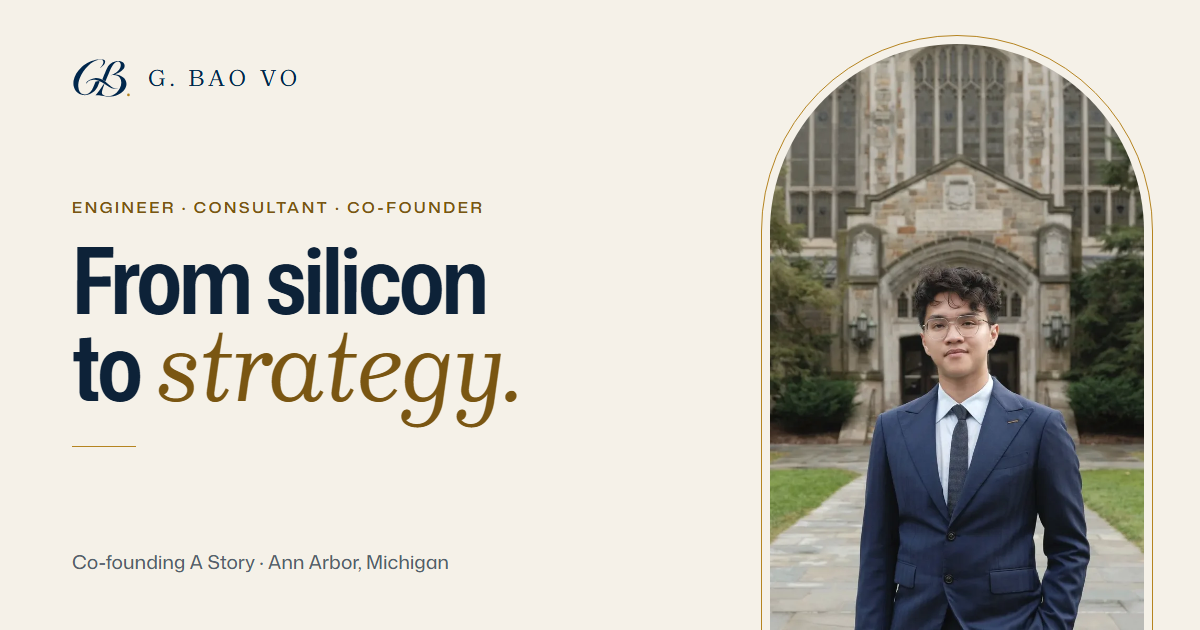
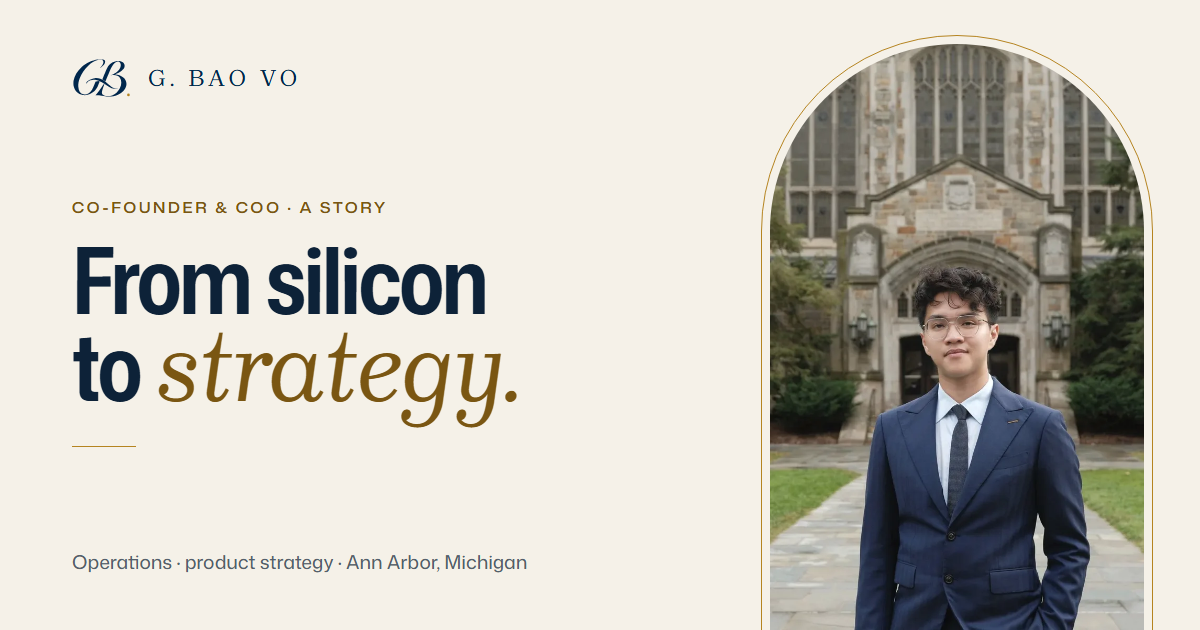
Lead with the business role, not the chip
Hero, About and intro labels now read Co-founder & COO, A Story; the hero
line leads with operations and product strategy at A Story, then biotech
strategy consulting. Engineering stays as background. Share card updated.

Changed region(s): [[0.0617, 0.3016, 0.4008, 0.3619], [0.0617, 0.8746, 0.4317, 0.9048]]

diff --git a/components/Home.tsx b/components/Home.tsx
@@ -11,7 +11,7 @@ import {ProgramBadges,ProgramsMember} from './ProgramBadges';
 export function Venture(){return <section id="current-venture" className="new-venture"><div className="container"><div className="venture-kicker"><Label num="03">The venture I’m building now</Label><a className="status-tag st-site" href={story.site}><i/>{story.siteLabel} · Private beta <span aria-hidden="true">↗</span></a></div><div className="venture-feature"><div className="venture-intro"><StoryBrand/><h2>Family stories, in the voices that lived them.</h2><p><strong>A Story is an AI biographer that calls the people you love and helps them tell their stories in their own voice.</strong> Relatives add their photos and their version of the same day, so one life is told by everyone who was there.</p><p className="venture-brandline">Not a memoir to finish.<br/>A Story to keep, and to carry on.</p><div className="st-actions"><ArrowLink className="solid-link" href="/a-story">See how A Story works</ArrowLink><ArrowLink href={story.site}>Visit {story.siteLabel}</ArrowLink></div><div className="venture-credit"><span>BAO’S ROLE</span><strong>Co-founder and COO, with Daniel Hoang Nguyen (CEO)</strong></div><div className="venture-backing"><ProgramBadges/><p>A member of the <strong>NVIDIA Inception program</strong>, the <strong>AssemblyAI Startup Program</strong>, and a <strong>Cartesia Startups</strong> grant recipient.</p></div></div><StoryShowcase compact/></div><ol className="venture-principles plate" aria-label="How A Story works">{story.steps.map(s=><li key={s.n}><p className="vp-head"><span className="vp-n">{s.n}</span><span className="vp-who">{s.who}</span></p><h3>{s.title}</h3><p>{s.text.split('. ')[0]}.</p></li>)}</ol></div></section>}
 
 export function Home({variant='b'}:{variant?:string}){return <main id="main" className="new-home" data-entrance="motion"><HomeEntrance/>
- <section id="overview" className={`identity-hero ${variant==='a'?'rectangular-hero':''}`}><div className="container"><div className="identity-layout"><div className="identity-copy"><Label>Engineer · Consultant · Co-founder</Label><p className="hello-line">Hi, I’m G. Bao Vo.</p><h1><span>From silicon</span><span>to <em>strategy.</em></span></h1><p className="identity-description">I helped take a 22nm chip to tape‑out, advised biotech start‑ups on their first market, and now co‑found A Story.</p><div className="identity-actions"><ArrowLink href="#timeline" className="solid-link">Explore the path</ArrowLink><ArrowLink href="#the-book" className="outline-link">Open the flipbook</ArrowLink></div><a className="hero-discovery" href="#selected-work">Discover the work <span aria-hidden="true">↓</span></a><div className="current-note plate"><div><span className="small"><span className="live-dot" aria-hidden="true"/>THE CURRENT CHAPTER</span><p>Co-founding <a href="/a-story">A Story</a>, from Michigan.</p><div className="current-membership"><ProgramBadges/><p className="current-sub"><ProgramsMember/></p></div></div></div></div><div className="identity-image"><div className="arch-frame"><Photo id="portrait" caption={false} priority sizes="(max-width:767px) 88vw, 42vw"/></div><div className="identity-caption"><span>G. Bao Vo<span className="gold">.</span></span><span>Ann Arbor, Michigan</span></div></div></div></div></section>
+ <section id="overview" className={`identity-hero ${variant==='a'?'rectangular-hero':''}`}><div className="container"><div className="identity-layout"><div className="identity-copy"><Label>Co-founder &amp; COO, A Story</Label><p className="hello-line">Hi, I’m G. Bao Vo.</p><h1><span>From silicon</span><span>to <em>strategy.</em></span></h1><p className="identity-description">I co-founded A Story, where I run operations and product strategy. Before that, I advised biotech start‑ups on their first market.</p><div className="identity-actions"><ArrowLink href="#timeline" className="solid-link">Explore the path</ArrowLink><ArrowLink href="#the-book" className="outline-link">Open the flipbook</ArrowLink></div><a className="hero-discovery" href="#selected-work">Discover the work <span aria-hidden="true">↓</span></a><div className="current-note plate"><div><span className="small"><span className="live-dot" aria-hidden="true"/>THE CURRENT CHAPTER</span><p>Co-founding <a href="/a-story">A Story</a>, from Michigan.</p><div className="current-membership"><ProgramBadges/><p className="current-sub"><ProgramsMember/></p></div></div></div></div><div className="identity-image"><div className="arch-frame"><Photo id="portrait" caption={false} priority sizes="(max-width:767px) 88vw, 42vw"/></div><div className="identity-caption"><span>G. Bao Vo<span className="gold">.</span></span><span>Ann Arbor, Michigan</span></div></div></div></div></section>
  <ChapterNav/>
  <section id="timeline" className="journey-section section"><div className="container"><Label num="01">The path so far</Label><div className="section-heading"><h2>How the<br/><em>chapters connect.</em></h2><p>A connected chronology of places, people, and work. Follow a year to see how one chapter opened the next.</p></div><Timeline/></div></section>
  <section id="the-book" className="home-book-section"><div className="container book-section-heading"><div><Label num="02">Two ways through the story</Label><h2>Scan the years.<br/><em>Or turn the pages.</em></h2></div><p>The Book is a more personal way<br/>through the same path.</p></div><BookReader embedded/></section>

diff --git a/app/about/page.tsx b/app/about/page.tsx
@@ -2,10 +2,10 @@ import {pageMetadata} from '@/content/metadata';
 import {ArrowLink,ContactClose,Label,Photo} from '@/components/Ledger';
 import {SectionNav} from '@/components/SectionNav';
 import '../pages.css';
-export const metadata=pageMetadata("About — From Vietnam to Michigan","Engineer, consultant and co-founder. G. Bao Vo’s background in engineering, teaching, consulting, and community at Michigan.","/about");
+export const metadata=pageMetadata("About — From Vietnam to Michigan","Co-founder and COO of A Story. G. Bao Vo’s background in engineering, teaching, consulting, and community at Michigan.","/about");
 const sections=[['working','How I work'],['path','The path here'],['research','Research & work'],['community','Community'],['outside','Outside work'],['education','Education']];
 export default function Page(){return <main id="main" className="about-editorial">
- <header className="about-hero container"><div><Label>About GB / Engineer · Consultant · Co-founder</Label><h1>I started in engineering.<br/><em>I kept looking around it.</em></h1><p className="about-lead">I like the space where a difficult idea becomes something <strong>people can actually use.</strong></p><p>My foundation is in materials, circuits, and real silicon. Consulting widened the frame to markets and adoption. Now, as A Story’s Co-founder and COO, I bring those questions into the same product.</p><ArrowLink className="solid-link" href="/a-story">The chapter I’m building now</ArrowLink></div><div className="about-portrait"><Photo id="smile" priority sizes="(max-width:767px) 80vw, 36vw"/><span className="portrait-note">Vietnam → Ann Arbor<br/>A path still taking shape.</span></div></header>
+ <header className="about-hero container"><div><Label>About GB / Co-founder &amp; COO, A Story</Label><h1>I started in engineering.<br/><em>I kept looking around it.</em></h1><p className="about-lead">I like the space where a difficult idea becomes something <strong>people can actually use.</strong></p><p>My foundation is in materials, circuits, and real silicon. Consulting widened the frame to markets and adoption. Now, as A Story’s Co-founder and COO, I bring those questions into the same product.</p><ArrowLink className="solid-link" href="/a-story">The chapter I’m building now</ArrowLink></div><div className="about-portrait"><Photo id="smile" priority sizes="(max-width:767px) 80vw, 36vw"/><span className="portrait-note">Vietnam → Ann Arbor<br/>A path still taking shape.</span></div></header>
  <SectionNav items={sections} label="About sections"/>
  <section id="working" className="section how-work"><span id="thinking" className="anchor-alias"/><div className="container"><Label>How I work</Label><div className="work-method-heading"><h2>Different problems.<br/><em>The same discipline.</em></h2><p>Tape-out, implantable circuits, consulting, and A Story ask different questions. Each starts with evidence and ends with a decision someone can use.</p></div><div className="work-methods"><article><span className="method-index">01</span><div><h3>Get close to the evidence.</h3><p>The timing path at <strong>Faraday</strong>. Noise and the physical sensor at <strong>WICS</strong>. Clinician interviews at <strong>miLEAD</strong>.</p></div><aside>Confidence should survive contact with the source.</aside></article><article><span className="method-index">02</span><div><h3>Find the constraint that matters.</h3><p>Power in an implantable circuit. Timing before tape-out. <strong>Trust in a family archive.</strong> The limiting factor changes the next decision.</p></div><aside>Power · Timing · Adoption · Trust</aside></article><article><span className="method-index">03</span><div><h3>Make the next move usable.</h3><p>An engineering handoff. A recommendation for biotech leadership. A first conversation in A Story. <strong>Give the next person something they can act on.</strong></p></div><aside>From analysis to a handoff.</aside></article></div></div></section>
  <section id="path" className="section about-path"><div className="container"><Label>The path here</Label><div className="section-heading"><h2>One question<br/><em>led to another.</em></h2><p>I arrived from Vietnam in 2019. Michigan became the place where materials led to circuits, engineering led to strategy, and unfamiliar faces became a community.</p></div><div className="about-path-grid"><Photo id="peterson"/><div className="path-essay"><article><span className="eyebrow">2019–23 / THE FOUNDATION</span><h3>Start with the material.</h3><p>Peterson Lab made research tangible: prepare a sample, take a measurement, change a condition, look again. Circuit projects added another kind of discipline—<strong>choosing between competing constraints.</strong></p></article><article><span className="eyebrow">2024–26 / A WIDER FRAME</span><h3>Follow the problem outward.</h3><p>Faraday brought the pressure of delivery. Graduate research brought demanding biomedical systems. Alongside that work, miLEAD asked how a promising technology could find a market.</p></article><ArrowLink href="/#timeline">Explore the complete Career Map</ArrowLink></div></div><blockquote className="about-pullquote">The circuit has to work.<br/><em>So does everything around it.</em></blockquote></div></section>

diff --git a/components/motion/Intro.tsx b/components/motion/Intro.tsx
@@ -117,7 +117,7 @@ function CardIntro({onDone}:{onDone:()=>void}){
  return <div className="site-intro" ref={root} aria-hidden="true">
   <span className="intro-frame"/>
   <div className="intro-centre">
-   <p className="intro-eyebrow">Engineer · Consultant · Co-founder</p>
+   <p className="intro-eyebrow">Co-founder &amp; COO, A Story</p>
    <p className="intro-name"><span>G. Bao Vo<b>.</b></span></p>
    <span className="intro-keyline"/>
    <p className="intro-window"><span className="intro-reel">{STOPS.map(s=><span key={s.label}>{s.label}</span>)}</span></p>

diff --git a/BRAND_DIRECTION.md b/BRAND_DIRECTION.md
@@ -35,9 +35,9 @@ Replaces "The Turn" (October 2026). The mark is the owner's initials, at his req
 
 ## Voice
 
-- **Concrete over titles:** "I helped take a 22nm chip to tape-out" rather than "builder".
+- **Business first:** lead with the role and the work (co-founder and COO, operations, product strategy, go-to-market). Engineering is the background, never the identity: no chip imagery in the brand.
 - **Short sentences,** few em dashes, no buzzwords.
-- **The label is the path:** Engineer · Consultant · Co-founder.
+- **The label is the role:** Co-founder & COO, A Story.
 
 ## Applications
 
